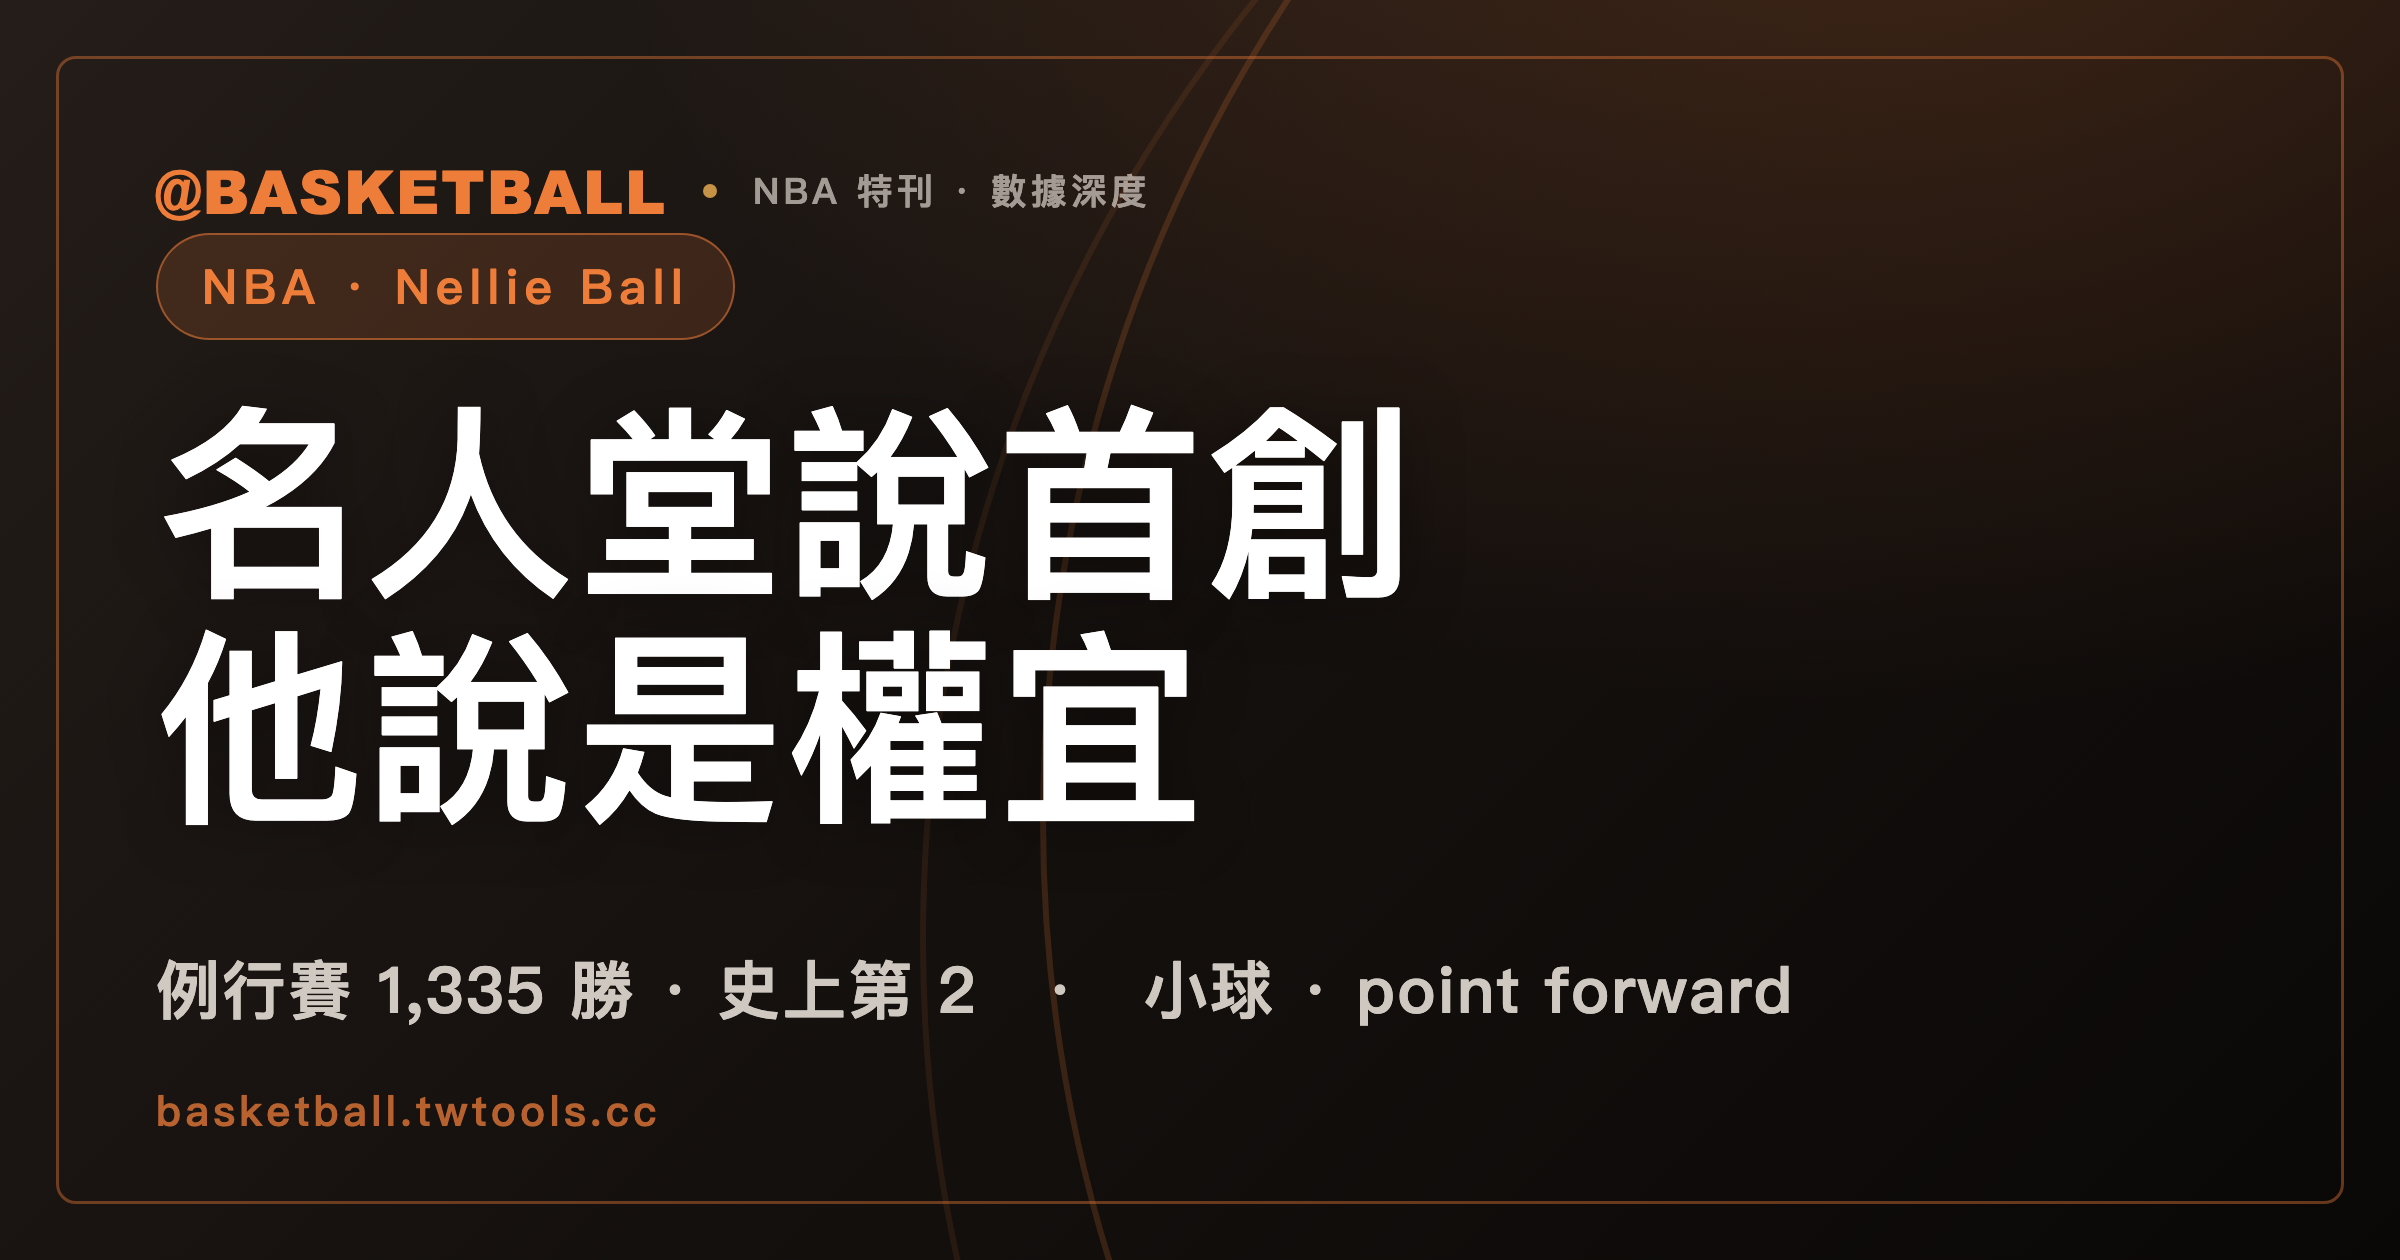
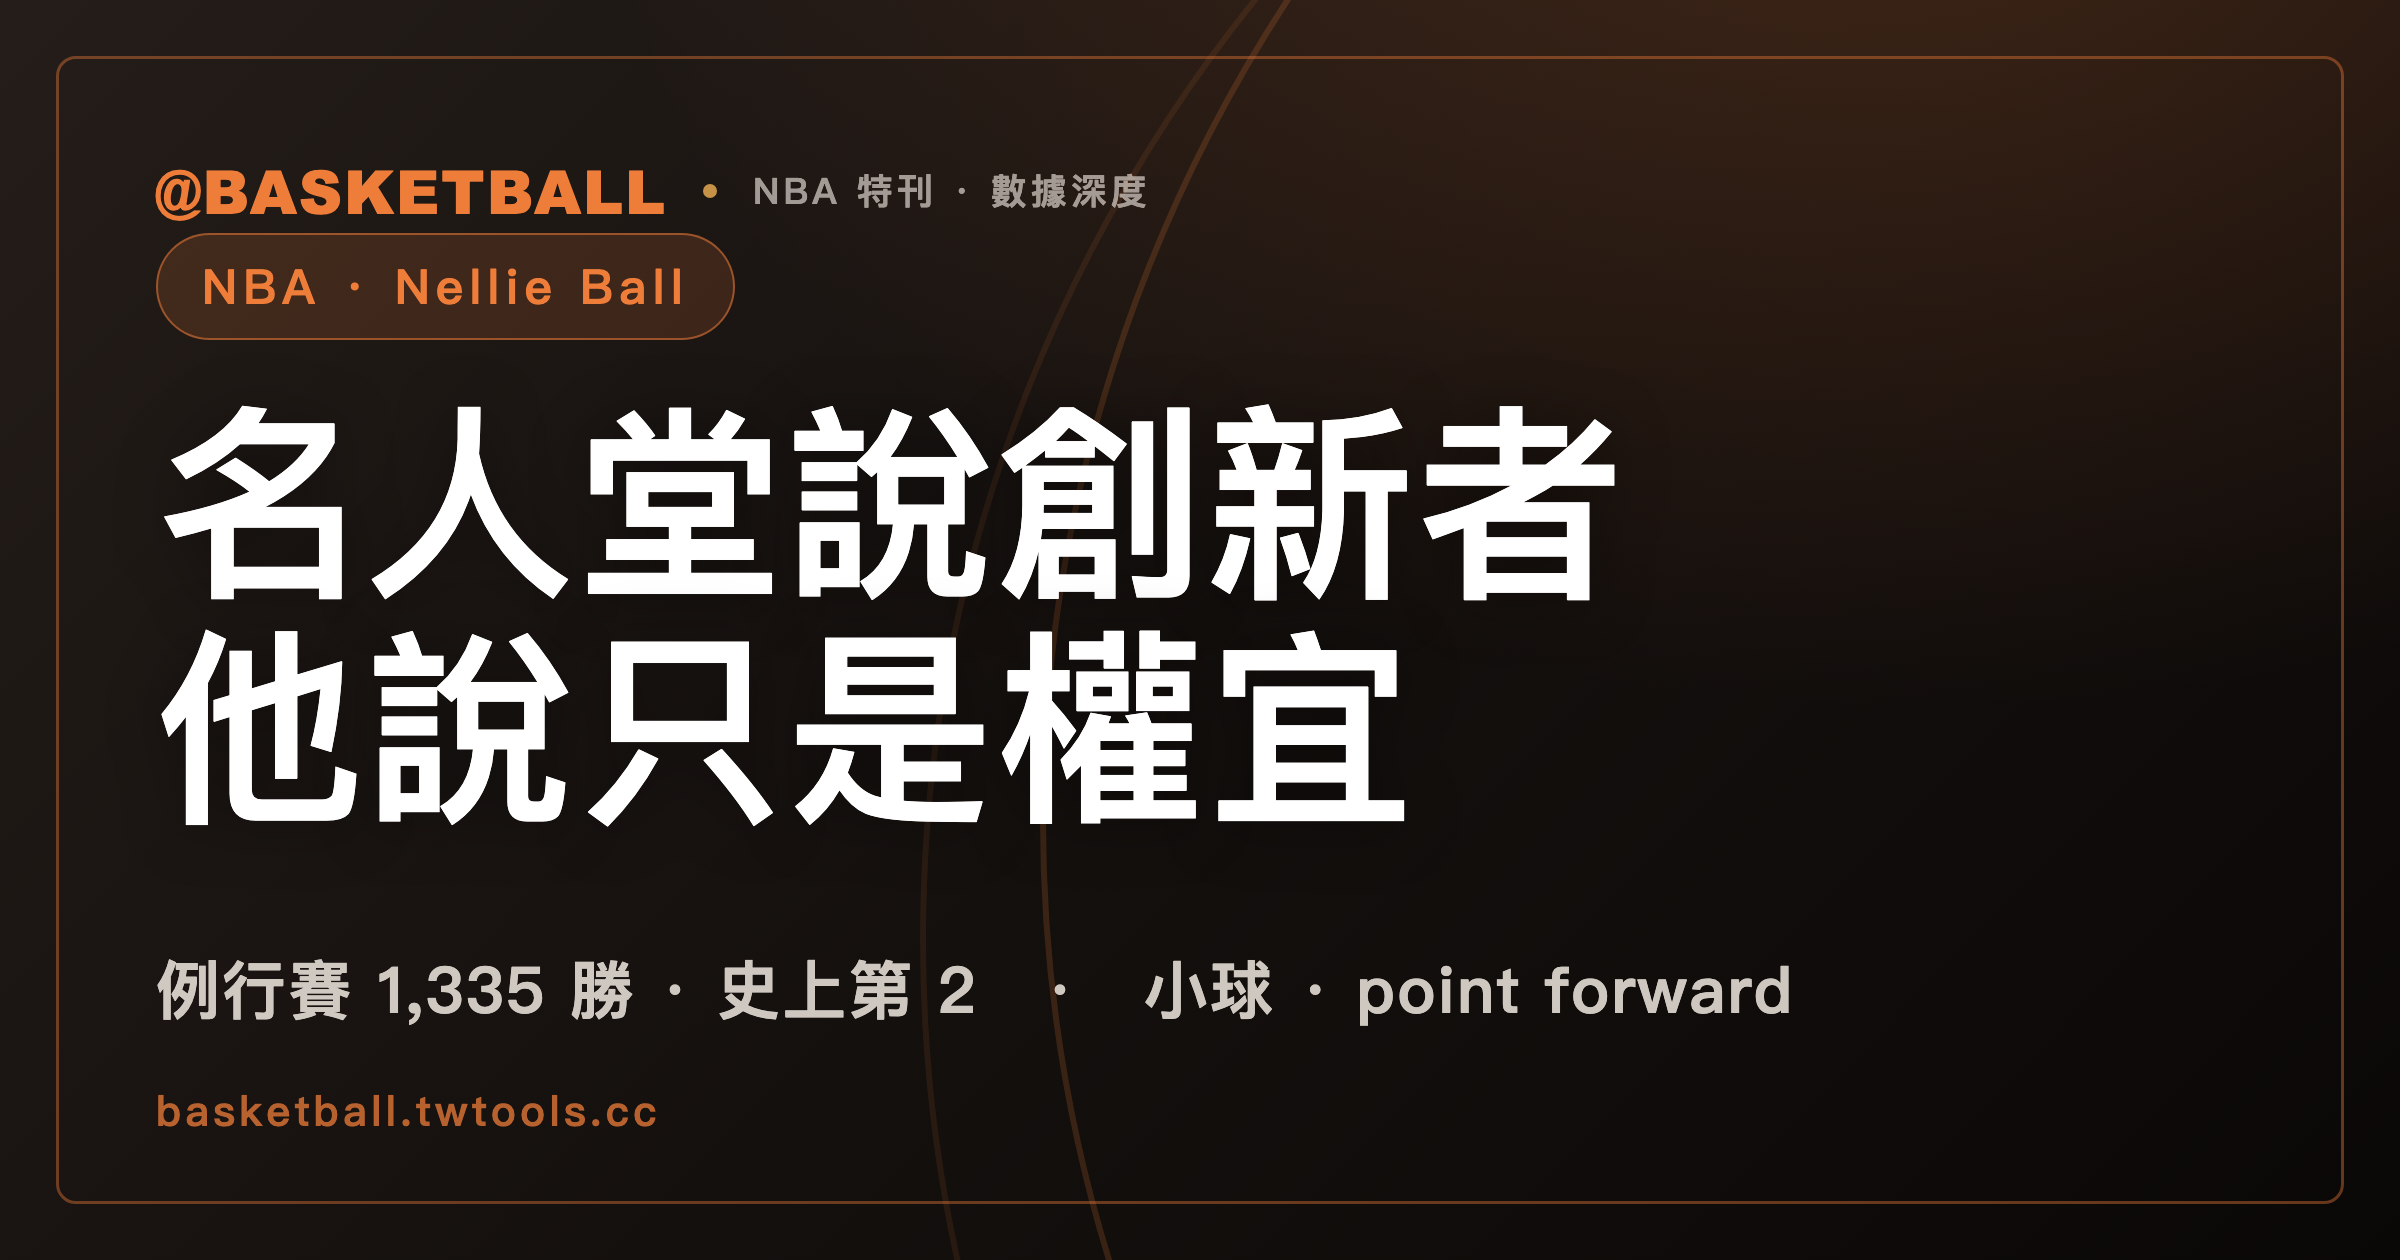
fix: 封面改掉查核桌已否決的「首創」主張 (#23)
查核桌第廿一戰把「名人堂稱首創」判為過度主張（名人堂原文是 innovator
不是 inventor，「首創」多加了發明權主張），標題／H1／導言／FAQ 全部改成
「創新者」，但封面 PNG 的文案沒跟著改，線上仍寫「名人堂說首創」。

載體盲區：check_nelson.py 只掃 markdown，PNG 是另一個載體，沒有任何
gate 看得到它。封面是 OG 卡與社群分享的門面，傳播範圍比正文更廣。

- gen-basketball-cover.py：「名人堂說首創／他說是權宜」
  → 「名人堂說創新者／他說只是權宜」（與最終標題同口徑）
- 重生 cover.png（2400×1260）並目檢確認文字正確渲染
- 已複查 PR #20／#21 封面，與各自最終標題一致，無同款漂移

Changed region(s): [[0.25, 0.3095, 0.6875, 0.65]]

diff --git a/scripts/gen-basketball-cover.py b/scripts/gen-basketball-cover.py
@@ -57,7 +57,7 @@ COVERS = [
      "衛冕軍首輪籤<br>選到了空氣",
      "跨聯盟轉隊 · 林庭謙返台　·　選秀 · 洋將 · 退役"),
     ("don-nelson-nellie-ball", "NBA · Nellie Ball",
-     "名人堂說首創<br>他說是權宜",
+     "名人堂說創新者<br>他說只是權宜",
      "例行賽 1,335 勝 · 史上第 2　·　小球 · point forward"),
 ]
 
